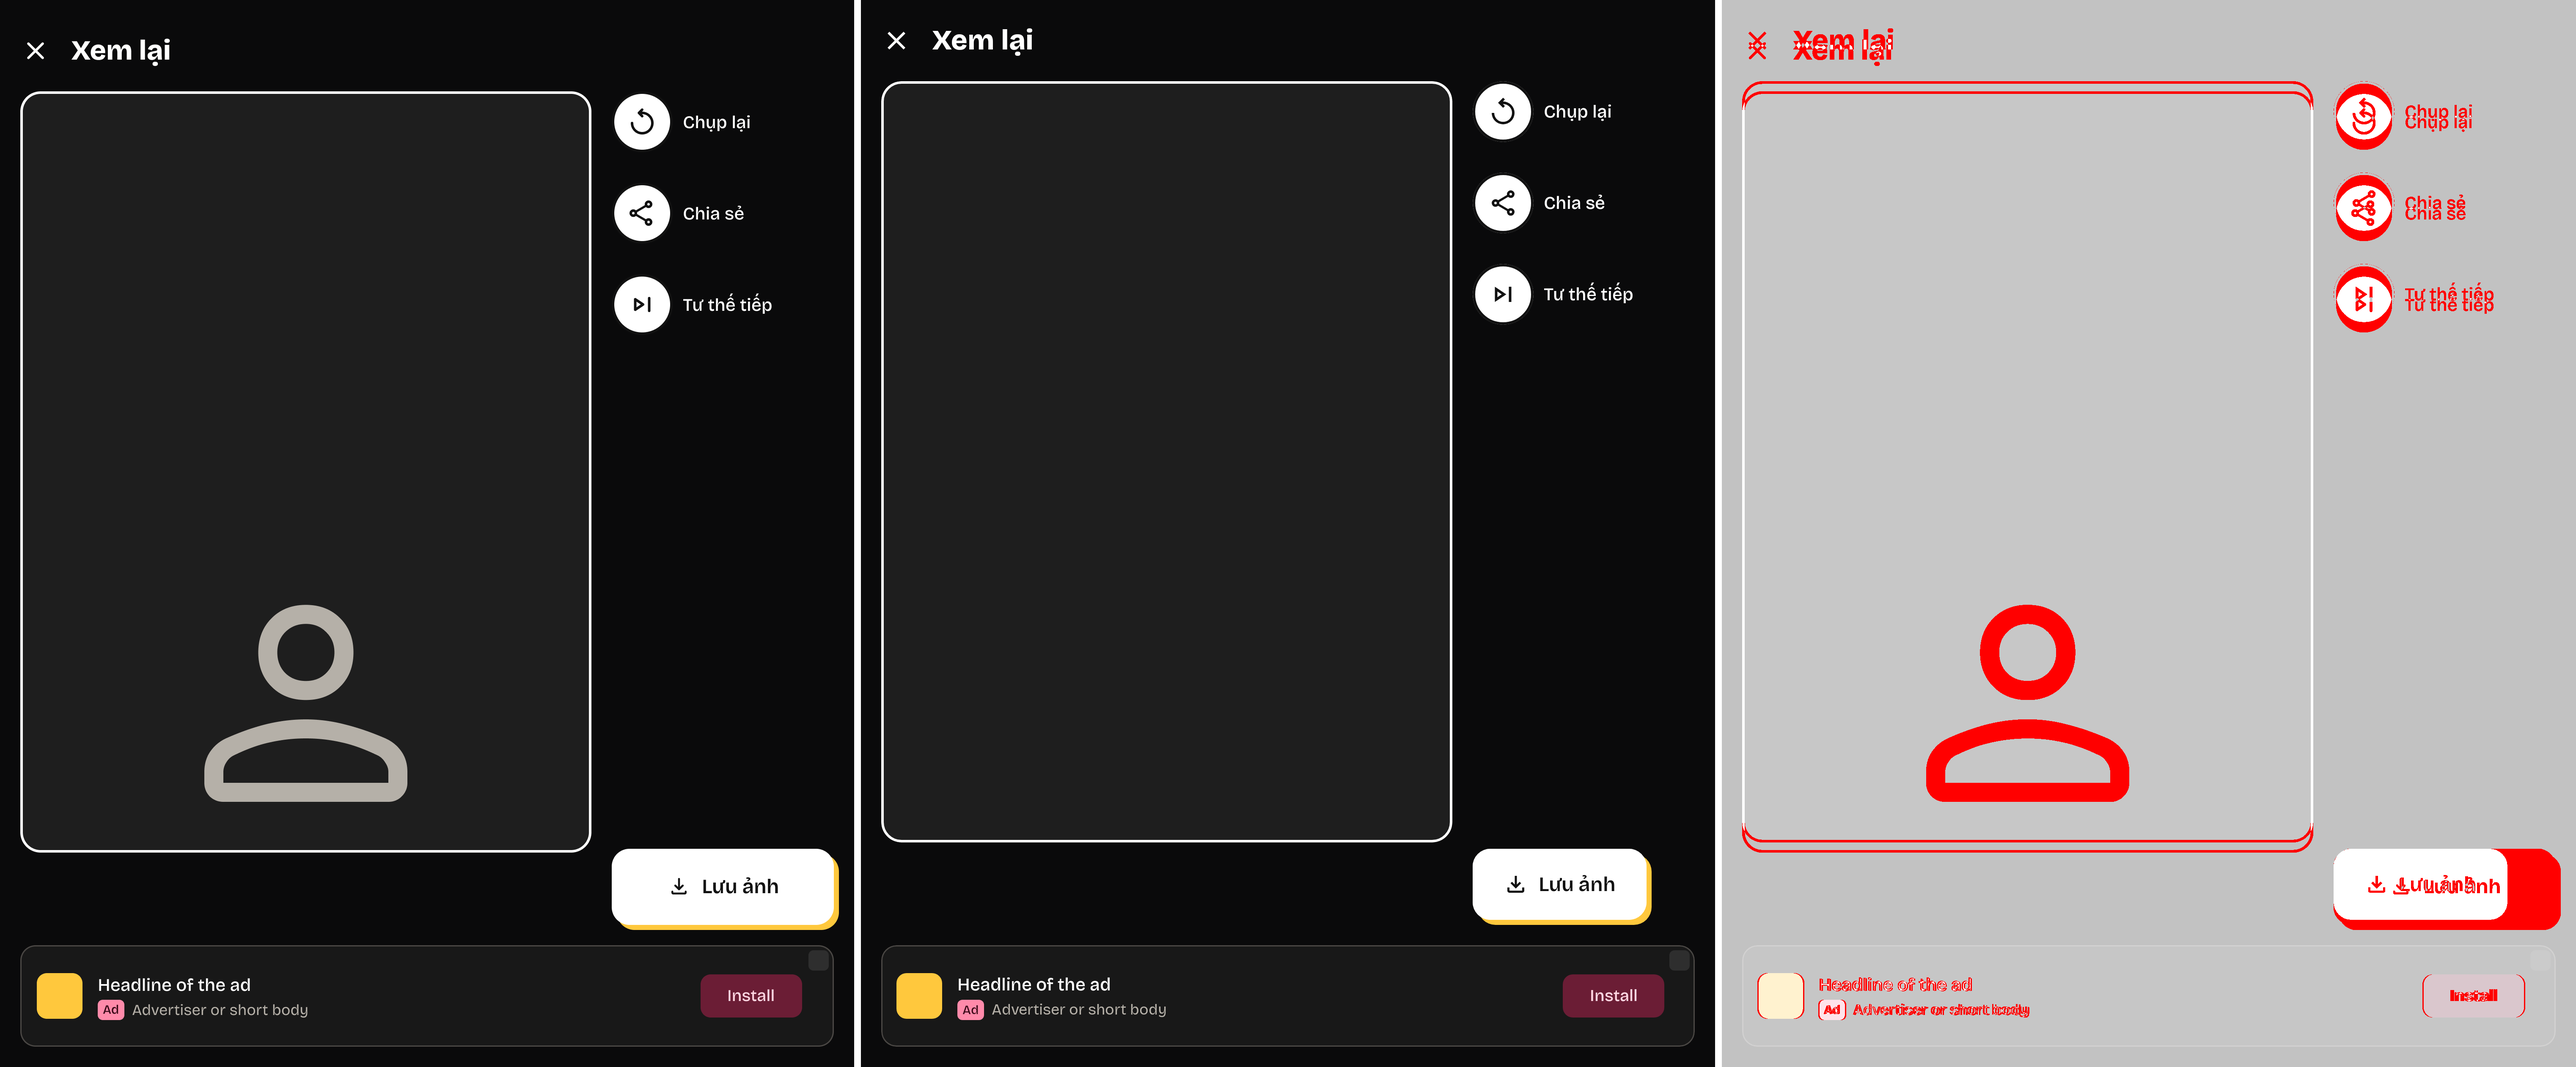
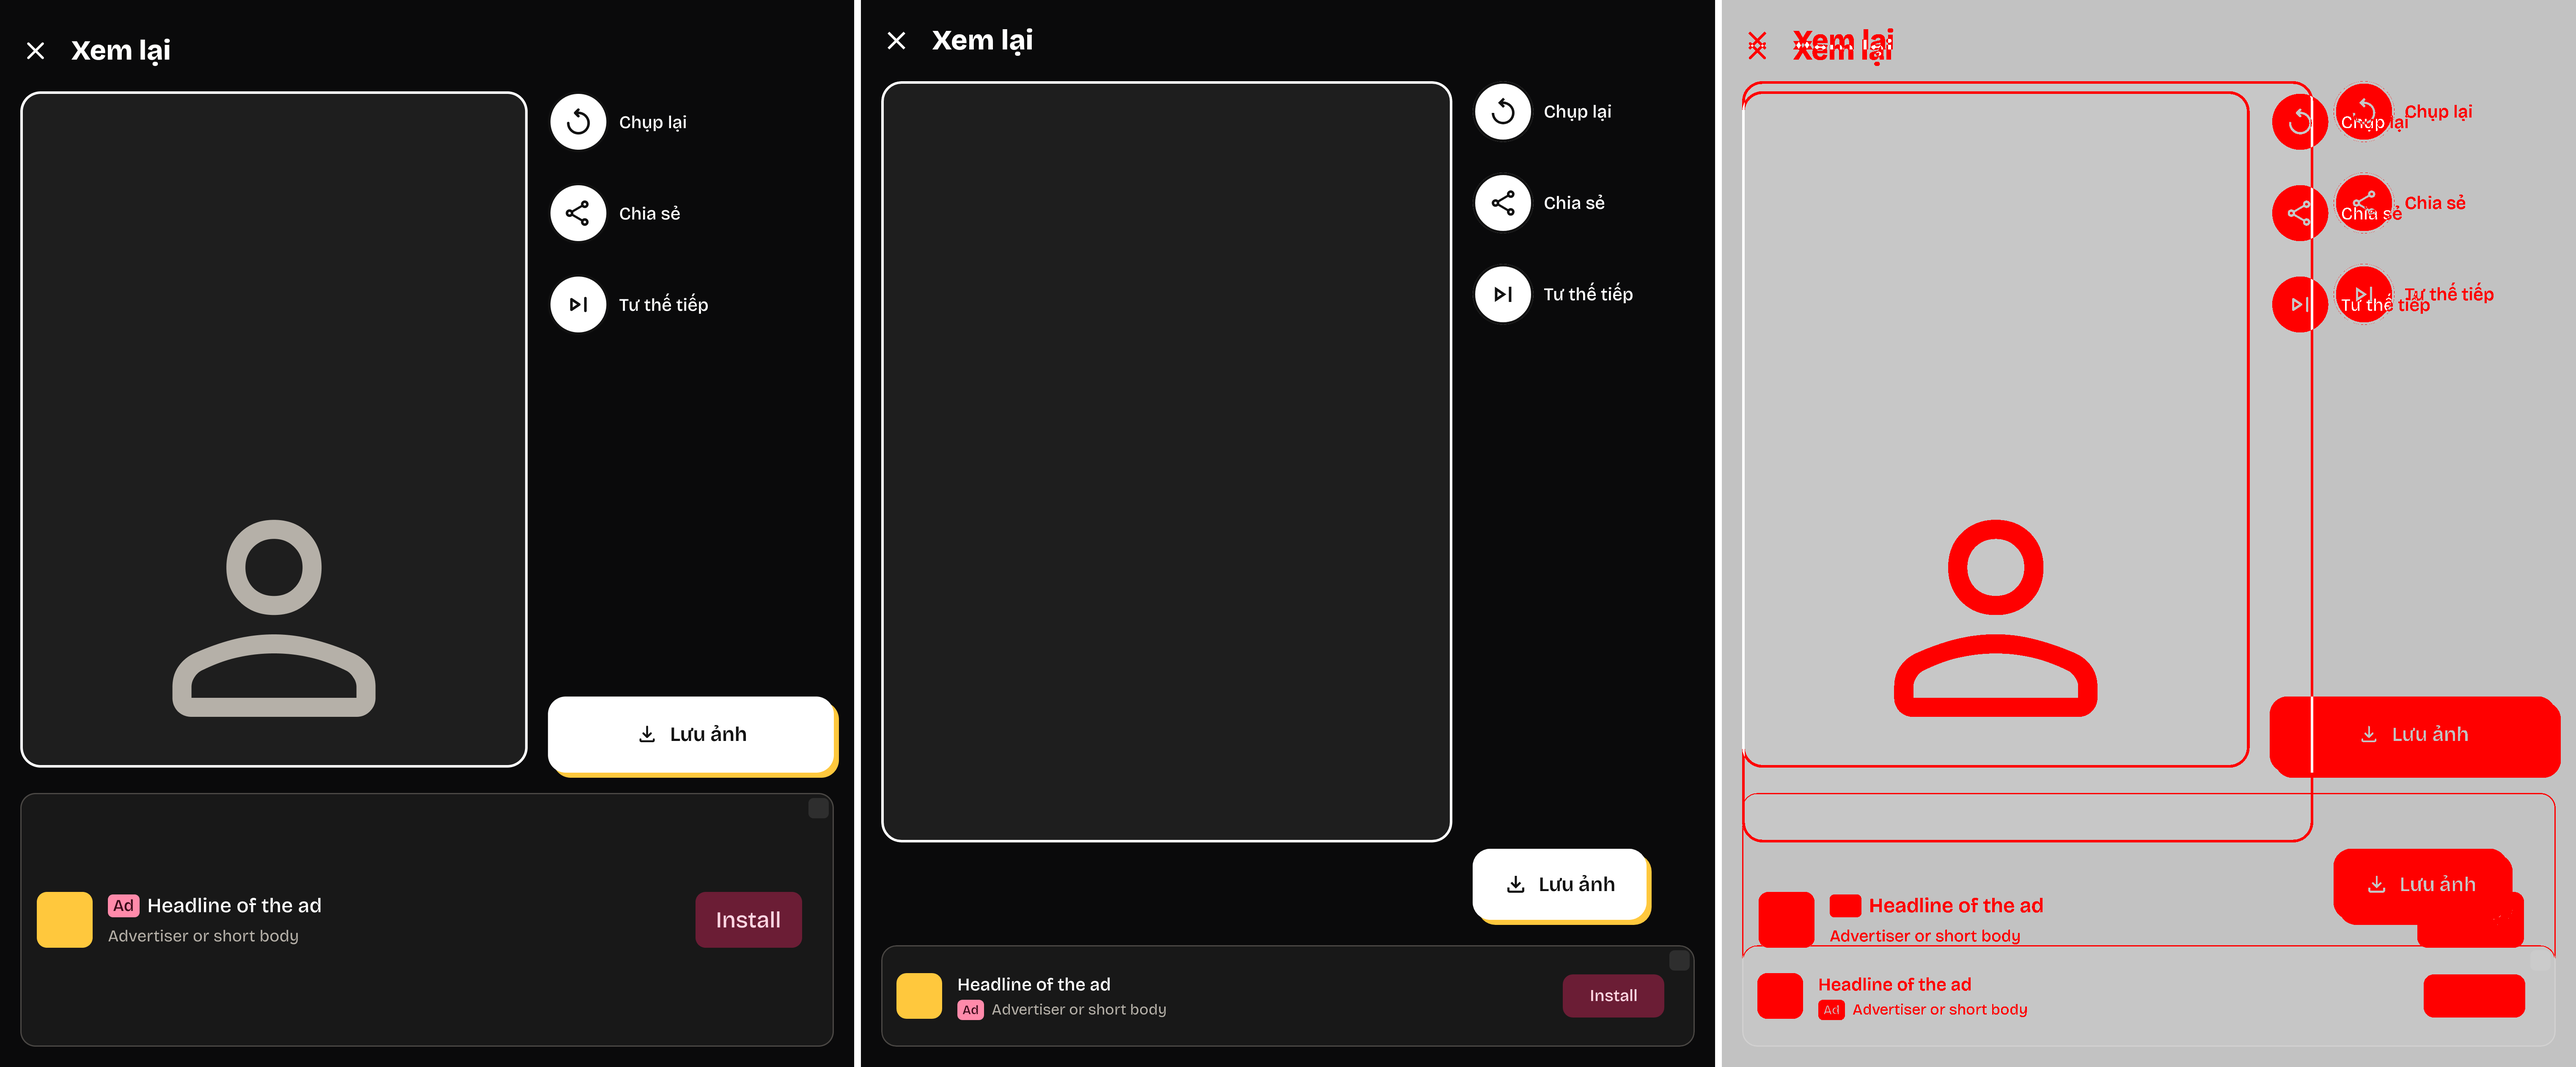
Thiết kế trạng thái ad theo thẻ native nhỏ mới của khung (T-098) (#354)
* Thiết kế trạng thái ad theo thẻ native nhỏ mới của khung (T-098)

Component NativeAdSmall trên Figma theo Native/Small của dự án mẫu (khe 126 dp,
200 dp khi mở gập); xuất lại 8 frame ad của poses, settings, camera; README và
review/ cập nhật; Nhật duyệt.

* README thiết kế: thứ tự đoạn và chú thích khoảng nút (rà soát PR #354)

---------

diff --git a/docs/features/poses/design/README.md b/docs/features/poses/design/README.md
@@ -6,7 +6,7 @@ tool: figma
 link: https://www.figma.com/design/ZTXse6375eT3KXDUJPBTpe/?node-id=20-23
 designer: AI (Claude), Nhật
 approved_by: Nhật
-approved_at: 2026-10-31
+approved_at: 2026-11-16
 ---
 
 # THIẾT KẾ: THƯ VIỆN TƯ THẾ VÀ CHI TIẾT TƯ THẾ
@@ -38,6 +38,8 @@ Hộp thoại mất mạng thuộc gói `network`.
 **Frame hộp thoại mở khóa.** Khung 411 x 891 (để `scripts/figma-export.py` xuất được), nền `background` trơn, chỉ có thẻ hộp thoại ở giữa: không vẽ màn phía sau, không lớp mờ, giống ảnh chuẩn `RewardedAdDialog_default_*` của `:core:ads`. Thẻ thật rộng 312, cao 288, ở (50, 302). Tên frame có `Screen` (`PoseUnlockDialogScreen_*`, như `NetworkDialogScreen_*`) vì script chỉ nhận tên dạng `<Ten>Screen_<trạng thái>_<light|dark>`; plan T-086 đề xuất `PoseUnlockDialog_default_*`, nên plan đổi tên ảnh chuẩn theo.
 
 Từ T-079 (câu hỏi 5 của spec, 2026-10-30), trạng thái `ad` vẽ thanh đáy native nhỏ của khung thay banner 320 x 50. `PosesScreen_ad-collection_light` là lưới cuộn tới tư thế thứ 7: hàng thứ năm có ô quảng cáo (sau 8 tư thế) và tư thế thứ 9; frame này không vẽ thanh đáy, để thấy riêng thẻ quảng cáo cạnh thẻ tư thế. Tên tư thế trên frame này chỉ để minh họa.
+
+Thiết kế trạng thái `ad` vẽ lại ngày 2026-11-16 theo thẻ native nhỏ mới của khung (component `Native/Small` của dự án mẫu): khe 126 ở khung chuẩn thay khe 80; Nhật duyệt trong phiên ("Duyệt").
 
 ## 2. Bảng chữ
 
@@ -84,7 +86,7 @@ Loại tư thế: Một người, Cặp đôi, Nhóm. Khung hình: Toàn thân, 
 | Các bước | `Row`: số trong vòng 28 và chữ | Vòng `secondaryContainer`, viền `outline` | `labelLarge`, `bodyMedium` | Cách nhau `Spacing.sm` |
 | Lỗi hay gặp | `Row`: icon `warning` và chữ | `tertiaryContainer`, `onTertiaryContainer`, viền `outline` | `titleSmall`, `bodyMedium` | Lề trong `Spacing.md`, bo `card` |
 | Thanh nút đáy ở chi tiết | Đường kẻ 2 và `PrimaryButton` `photo_camera` | Đường kẻ `outlineVariant`; nền `background` | | Cao 96; nút rộng hết trừ lề `Spacing.md` |
-| Thanh đáy native | `BottomAdBarScaffold` của `:core:ads` (component Figma `NativeAdSmall`, theo `NativeAdCard` cỡ `SMALL`) | Theo khung: nền `surfaceContainerLow`, viền `outlineVariant` 1, icon `secondaryContainer`, nhãn "Ad" `tertiary`, nút `tertiaryContainer` | Theo khung | Khe 80, cách mép trái, phải, đáy `Spacing.md`; nội dung chừa 96 ở đáy |
+| Thanh đáy native | `BottomAdBarScaffold` của `:core:ads` (component Figma `NativeAdSmall`, theo `NativeAdCard` cỡ `SMALL`) | Theo khung: nền `surfaceContainerLow`, viền `outlineVariant` 1, icon `secondaryContainer`, nhãn "Ad" `tertiary`, nút `tertiaryContainer` | Theo khung | Khe cao theo cạnh ngắn của cửa sổ (theo khung, `docs/ops/ads-business-rules.md`, D-02): 126 ở khung chuẩn, 200 ở khung mở gập; thẻ: icon 44, nhãn "Ad" 13 sp trước tiêu đề 16 sp một dòng, dòng dưới 13 sp tối đa 2 dòng, CTA cao 44 chữ 18 sp rộng theo chữ; cách mép trái, phải, đáy `Spacing.md`; nội dung chừa 142 ở đáy; thanh nút đáy ở chi tiết nằm ngay trên khe |
 | Ô quảng cáo trong lưới | `itemsWithInListAds` của `:core:ads` (component Figma `NativeAdCard`, theo `NativeAdCard` cỡ `CARD`) | Như thanh đáy; ảnh `surfaceContainer` | Theo khung | Chiếm một ô, cùng cỡ thẻ tư thế; lề trong `Spacing.sm` |
 | Dấu premium | `PremiumBadge` (mới, `:core:designsystem`; component Figma `PremiumBadge`, ba cỡ) | Nền `tertiaryContainer`, viền `outline` `Stroke.sticker`, icon `workspace_premium` màu `onTertiaryContainer` | | `Size=Card` 32, icon 20: góc trên trái ảnh của thẻ, ở (6, 10) trong ảnh, tâm đối xứng nút lưu 36 qua trục giữa; `Size=Inline` 20, icon 14: đầu dòng phụ của chi tiết, cách chữ `Spacing.sm`; `Size=Thumb` 22, icon 14: ô 64 của camera (gói `camera`). Không làm mờ hay che ảnh |
 | Thẻ tư thế premium | `PoseCard(premium = true)` (Figma `PoseCard`, `Premium=Yes`) | Như thẻ thường | | Dấu và nút lưu cùng lúc được |
@@ -92,7 +94,7 @@ Loại tư thế: Một người, Cặp đôi, Nhóm. Khung hình: Toàn thân, 
 | Hộp thoại mở khóa | `RewardedAdDialog` của `:core:ads` (thẻ `RewardedAdDialogCard`), tiêu đề của app, nội dung `PremiumUnlockContent` (mới, `:core:designsystem`); component Figma `PremiumUnlockDialog` vẽ lại thẻ của khung | Thẻ `surfaceContainerHigh`; tiêu đề, tên `onSurface`; lời `onSurfaceVariant`; nút "Xem quảng cáo" `primary`, `onPrimary`; "Để sau" `onSurfaceVariant` | `headlineSmall`; tên `titleMedium`; lời `bodyMedium`; nút `labelLarge` | Theo khung: rộng tối đa 312, bo 28 (`shapes.extraLarge`), lề `Spacing.lg`, các phần cách `Spacing.md`; nút 56 bo 28; nút chữ 40; hai nút cách `Spacing.sm`. Nội dung của app: tên và lời cách `Spacing.sm` |
 
 - **Thành phần mới cần thêm vào hệ thống thiết kế:** `PoseCard`, `PoseCardSkeleton`, `StickerChip`, `SelectedBadge`, `StateMessage` (xem `sticker.md`, mục 4). Tư thế premium (T-086): `PremiumBadge` (mới), `PremiumUnlockContent` (mới), tham số `premium` của `PoseCard` và `PoseThumb`; thay đổi module core, rủi ro cao. Giá trị icon 20, 14 và cỡ vòng 32, 22, 20 là số của dấu, `context/` ghi kiểu chữ icon "ngoài hệ thống" như các icon khác.
-- **Component quảng cáo trên Figma:** `NativeAdSmall`, `NativeAdCard` (trang Design system, cạnh `AdSlot`) chỉ vẽ lại giao diện của khung `:core:ads` để đặt vào màn hình; không phải thành phần mới của app. Bo góc 12, bo ảnh và nút 8, khoảng cách 12, cỡ chữ 13 và 10 là số của khung (`NativeAdDimens`), `context/` ghi "ngoài hệ thống".
+- **Component quảng cáo trên Figma:** `NativeAdSmall`, `NativeAdCard` (trang Design system, cạnh `AdSlot`) chỉ vẽ lại giao diện của khung `:core:ads` để đặt vào màn hình; không phải thành phần mới của app. Bo góc 12, bo ảnh và nút 8, khoảng cách 12, cỡ chữ 13, 16 và 18 của thẻ native nhỏ là số của khung (`NativeAdDimens`), `context/` ghi "ngoài hệ thống".
 
 **Máy gập mở ra (673 x 841).** Thư viện: 3 cột. Chi tiết: ảnh 315 x 440 bên trái; cột phải rộng 310 có dòng phụ, các bước, lỗi hay gặp; thanh nút đáy chỉ ở cột phải.
 

diff --git a/docs/features/camera/design/README.md b/docs/features/camera/design/README.md
@@ -6,7 +6,7 @@ tool: figma
 link: https://www.figma.com/design/ZTXse6375eT3KXDUJPBTpe/?node-id=16-24
 designer: AI (Claude), Nhật
 approved_by: Nhật
-approved_at: 2026-10-31
+approved_at: 2026-11-16
 ---
 
 # THIẾT KẾ: CAMERA VÀ MÀN XEM LẠI
@@ -103,7 +103,7 @@ Dấu ba chấm là một ký tự (`…`).
 | Xem lại: nút chính | `PrimaryButton` `download` | `secondary` (tối: trắng), `onSecondary` | | Rộng hết, cách đáy `Spacing.lg` |
 | Xem lại: lưu lỗi | `Snackbar` | `inverseSurface`, `inverseOnSurface`, `inversePrimary` | | Trên nút chính `Spacing.md` |
 | Xem lại: hỏi bỏ ảnh | `ConfirmDialog` trên lớp mờ 50% | `surface`, viền `outline` | | Rộng 331 |
-| Xem lại: thanh đáy native | `BottomAdBarScaffold` của `:core:ads` (component Figma `NativeAdSmall`, theo `NativeAdCard` cỡ `SMALL`); không có lớp native thu gọn nổi (spec ads, câu 19, ý e) | Theo khung, chế độ tối: nền `surfaceContainerLow`, viền `outlineVariant` 1, icon `secondaryContainer`, nhãn "Ad" `tertiary`, nút `tertiaryContainer` | Theo khung | Khe 80, cách mép trái, phải, đáy `Spacing.md`; nội dung chừa 96 ở đáy. Điện thoại: ảnh giữ 379 x 505 và hàng nút phụ giữ chỗ như khi không có thanh (còn đủ chỗ ở khung chuẩn), chỉ nút chính dời lên 96; khi màn có thêm nội dung (thông báo lưu lỗi, nút "Mở cài đặt") và ở khung thấp, ảnh co lại theo chỗ còn lại, giữ 3:4; số đo thật ở mục 4 của plan T-094 (Nhật chọn ngày 2026-11-13, theo bố cục có sẵn của màn). Gập mở: thanh rộng hết (641) dưới cả ảnh và cột phải; ảnh giữ 450 x 600, nút chính dời lên, cách thanh 20 (như điện thoại: lề dưới của nút chính trong code; frame vẽ 16) |
+| Xem lại: thanh đáy native | `BottomAdBarScaffold` của `:core:ads` (component Figma `NativeAdSmall`, theo `NativeAdCard` cỡ `SMALL`); không có lớp native thu gọn nổi (spec ads, câu 19, ý e) | Theo khung, chế độ tối: nền `surfaceContainerLow`, viền `outlineVariant` 1, icon `secondaryContainer`, nhãn "Ad" `tertiary`, nút `tertiaryContainer` | Theo khung | Khe cao theo cạnh ngắn của cửa sổ (theo khung, `docs/ops/ads-business-rules.md`, D-02): 126 ở khung chuẩn, 200 ở khung mở gập; thẻ: icon 44, nhãn "Ad" 13 sp trước tiêu đề 16 sp một dòng, dòng dưới 13 sp tối đa 2 dòng, CTA cao 44 chữ 18 sp rộng theo chữ; cách mép trái, phải, đáy `Spacing.md`; nội dung chừa 142 ở đáy (khung mở gập: 216). Điện thoại: ảnh co lại theo chỗ còn lại, giữ 3:4: 355 x 473 ở khung chuẩn (bố cục có sẵn của màn: ảnh, `Spacing.lg`, hàng nút phụ, `Spacing.md`, nút chính, 20 trên thanh); hàng nút phụ ở y 585, nút chính ở y 669 (nút chính trong code cao 56, frame vẽ 60, nên khoảng giữa hai hàng trên frame là 12). Gập mở: thanh 641 x 200 rộng hết dưới cả ảnh và cột phải; ảnh 400 x 533, cột phải từ x 432 rộng 225; nút chính cách thanh 20 (lề dưới của nút chính trong code; frame vẽ 16) |
 
 - **Thành phần mới cần thêm vào hệ thống thiết kế:** `CameraIconButton`, `StickerChip`, `SelectedBadge`, `PoseThumb`, `StepCard`, `ZoomControl`, `MatchHint`, `AdjustPanel`, `GridOverlay`, `StateMessage`, `SecondaryButton` (xem `sticker.md`, mục 4).
 
@@ -119,7 +119,9 @@ Dấu ba chấm là một ký tự (`…`).
 
 ## 5. Vị trí quảng cáo
 
-`review_interstitial`: toàn màn hình, hiện khi rời `ReviewScreen` sau khi đã lưu ảnh, trước khi về camera (spec mục 5). `review_bottom` (spec ads, câu 19): thanh đáy native nhỏ ở đáy `ReviewScreen`, dưới mọi nút, ở mọi trạng thái của màn (ảnh `ReviewScreen_ad_*`); ảnh co lại cho vừa phần còn lại, không bị cắt hay che. Khóa tắt, quảng cáo đang tải hay không có thì không chừa khoảng trống (ảnh `default`). Hộp thoại "Bỏ ảnh này?" và thông báo lưu lỗi phủ lên như hôm nay. `is_show_native_bottom` tắt thì khe là banner ở cùng chỗ; không có lớp quảng cáo nổi dù `is_show_native_collap` bật (spec camera, KB-9). Bo góc 12, bo ảnh và nút 8, khoảng cách 12, cỡ chữ 13 và 10 của thẻ là số của khung (`NativeAdDimens`); `context/` ghi "ngoài hệ thống", không làm tròn hay thêm token. Vị trí từng phần lấy theo `context/` của từng frame; nút chính cách thanh 20 ở cả điện thoại lẫn máy gập mở ra (frame máy gập vẽ 16, code giữ 20). Chữ của thẻ là chữ giả của ảnh chuẩn `NativeAdCard`, không vào bảng chữ. Không có vùng quảng cáo nào trên `CameraScreen`.
+Thiết kế trạng thái `ad` vẽ lại ngày 2026-11-16 theo thẻ native nhỏ mới của khung (component `Native/Small` của dự án mẫu): khe 126 ở khung chuẩn thay khe 80; Nhật duyệt trong phiên ("Duyệt").
+
+`review_interstitial`: toàn màn hình, hiện khi rời `ReviewScreen` sau khi đã lưu ảnh, trước khi về camera (spec mục 5). `review_bottom` (spec ads, câu 19): thanh đáy native nhỏ ở đáy `ReviewScreen`, dưới mọi nút, ở mọi trạng thái của màn (ảnh `ReviewScreen_ad_*`); ảnh co lại cho vừa phần còn lại, không bị cắt hay che. Khóa tắt, quảng cáo đang tải hay không có thì không chừa khoảng trống (ảnh `default`). Hộp thoại "Bỏ ảnh này?" và thông báo lưu lỗi phủ lên như hôm nay. `is_show_native_bottom` tắt thì khe là banner ở cùng chỗ; không có lớp quảng cáo nổi dù `is_show_native_collap` bật (spec camera, KB-9). Bo góc 12, bo ảnh và nút 8, khoảng cách 12, cỡ chữ 13, 16 và 18 của thẻ là số của khung (`NativeAdDimens`); `context/` ghi "ngoài hệ thống", không làm tròn hay thêm token. Vị trí từng phần lấy theo `context/` của từng frame; nút chính cách thanh 20 ở cả điện thoại lẫn máy gập mở ra (frame máy gập vẽ 16, code giữ 20). Chữ của thẻ là chữ giả của ảnh chuẩn `NativeAdCard`, không vào bảng chữ. Không có vùng quảng cáo nào trên `CameraScreen`.
 
 ## 6. Chuyển sang Compose
 

diff --git a/docs/features/poses/design/review/summary.md b/docs/features/poses/design/review/summary.md
@@ -1,7 +1,7 @@
 | Màn hình | Điểm ảnh khác | Ảnh so sánh (thiết kế, thật, khác biệt) |
 | --- | --- | --- |
-| PoseDetailScreen_ad_dark | 14.9% | `PoseDetailScreen_ad_dark_compare.png` |
-| PoseDetailScreen_ad_light | 13.4% | `PoseDetailScreen_ad_light_compare.png` |
+| PoseDetailScreen_ad_dark | 23.6% | `PoseDetailScreen_ad_dark_compare.png` |
+| PoseDetailScreen_ad_light | 22.6% | `PoseDetailScreen_ad_light_compare.png` |
 | PoseDetailScreen_default_dark | 18.1% | `PoseDetailScreen_default_dark_compare.png` |
 | PoseDetailScreen_default_dark_unfolded | 3.8% | `PoseDetailScreen_default_dark_unfolded_compare.png` |
 | PoseDetailScreen_default_light | 14.5% | `PoseDetailScreen_default_light_compare.png` |
@@ -15,8 +15,8 @@
 | PoseUnlockDialogScreen_default_dark | 2.1% | `PoseUnlockDialogScreen_default_dark_compare.png` |
 | PoseUnlockDialogScreen_default_light | 2.1% | `PoseUnlockDialogScreen_default_light_compare.png` |
 | PosesScreen_ad-collection_light | 19.9% | `PosesScreen_ad-collection_light_compare.png` |
-| PosesScreen_ad_dark | 22.4% | `PosesScreen_ad_dark_compare.png` |
-| PosesScreen_ad_light | 22.5% | `PosesScreen_ad_light_compare.png` |
+| PosesScreen_ad_dark | 24.0% | `PosesScreen_ad_dark_compare.png` |
+| PosesScreen_ad_light | 23.3% | `PosesScreen_ad_light_compare.png` |
 | PosesScreen_default_dark | 22.1% | `PosesScreen_default_dark_compare.png` |
 | PosesScreen_default_dark_unfolded | 23.4% | `PosesScreen_default_dark_unfolded_compare.png` |
 | PosesScreen_default_light | 22.1% | `PosesScreen_default_light_compare.png` |
